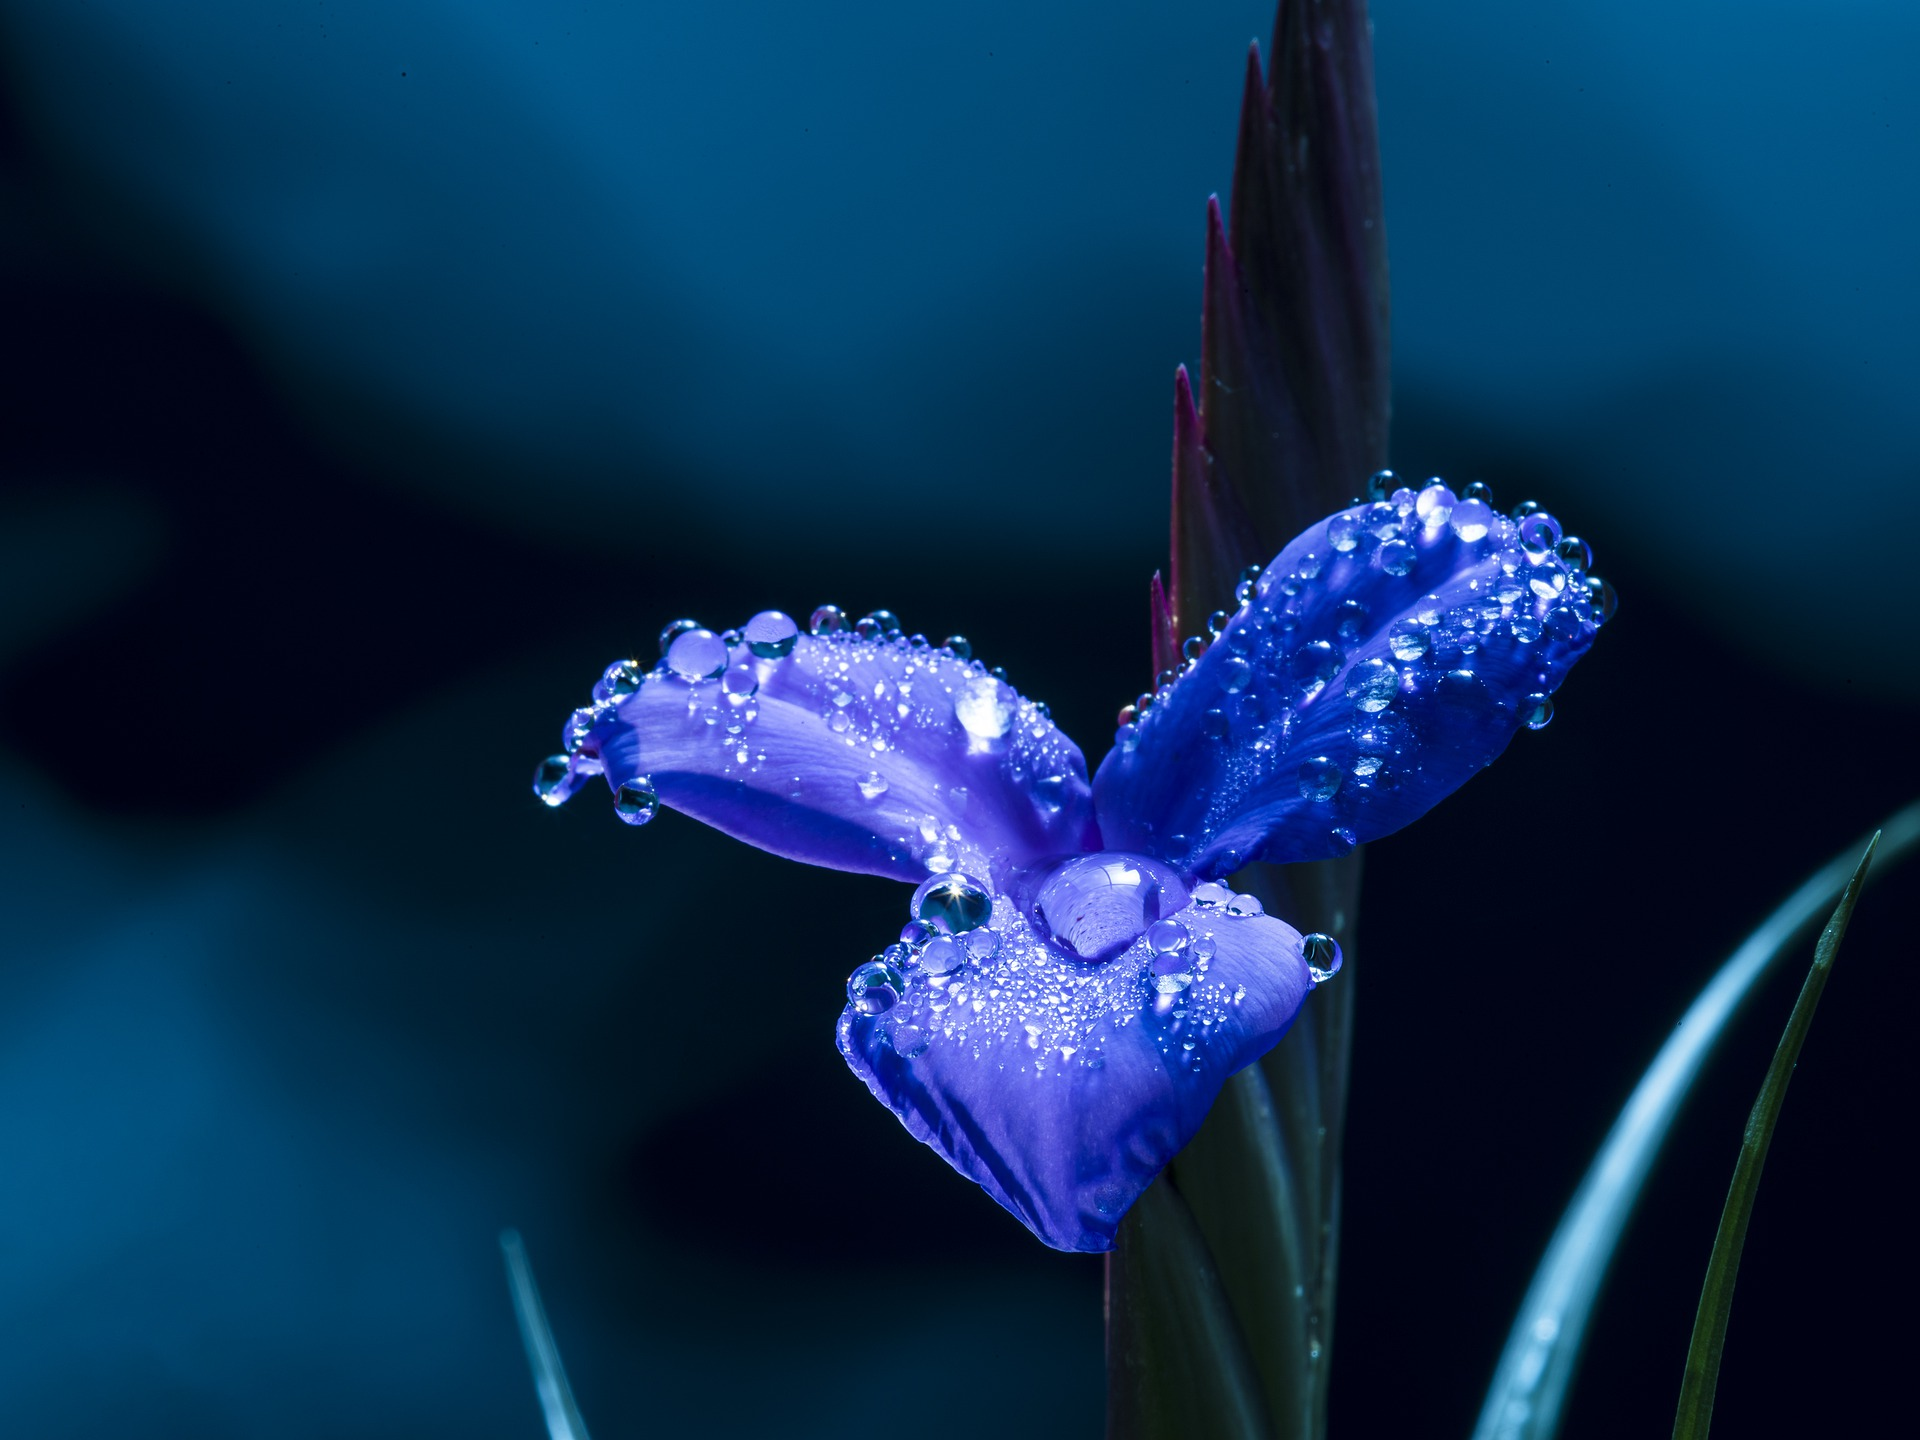
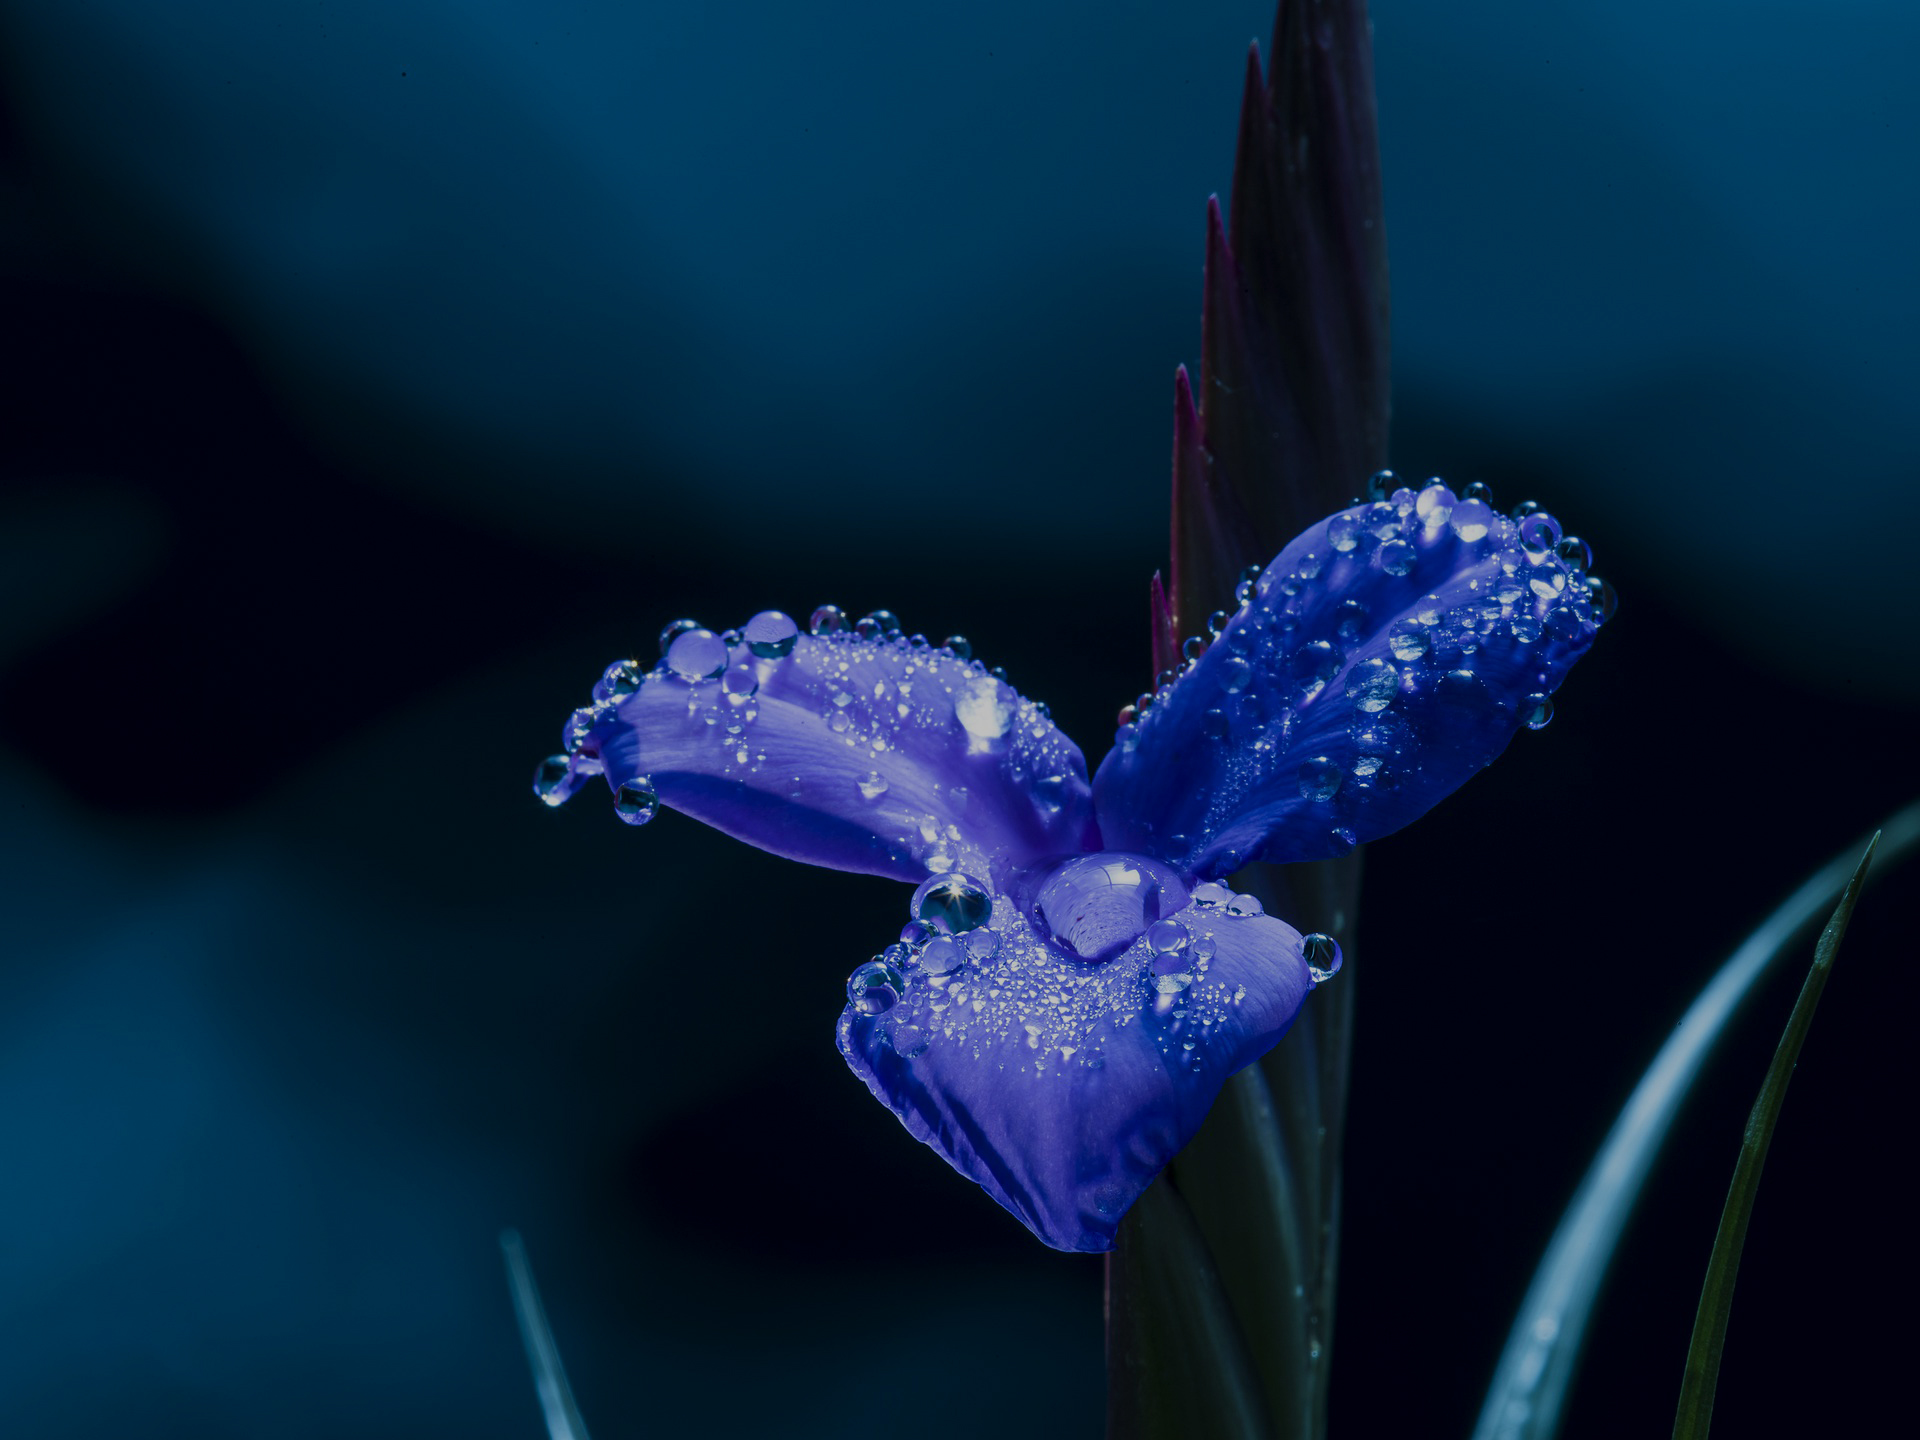
updates

diff --git a/css/index.css b/css/index.css
@@ -315,7 +315,7 @@ h2 {
 }
 
 #contact-me {
-  background-image: url('../images/8.jpg');
+  background-image: url('../images/13.jpg');
   background-size: cover;
   background-repeat: no-repeat;
   background-position: center;
@@ -327,7 +327,7 @@ h2 {
 }
 
 #contact-title {
-  background-color: rgba(0, 0, 0, 50%);
+  background-color: rgba(0, 0, 0, 70%);
   color: #fff;
   max-width: max-content;
   padding: 2vh 2vw;
@@ -352,7 +352,7 @@ form {
 fieldset {
   border: none;
   padding: 4vh 4vw;
-  background-color: rgba(0, 0, 0, 50%);
+  background-color: rgba(0, 0, 0, 70%);
 }
 
 label {
@@ -365,7 +365,7 @@ label {
 
 input {
   display: block;
-  background-color: rgba(151, 148, 154, 30%);
+  background-color: rgba(151, 148, 154, 40%);
   line-height: 2em;
   font-size: 1.5rem;
   transition: all 1s linear;
